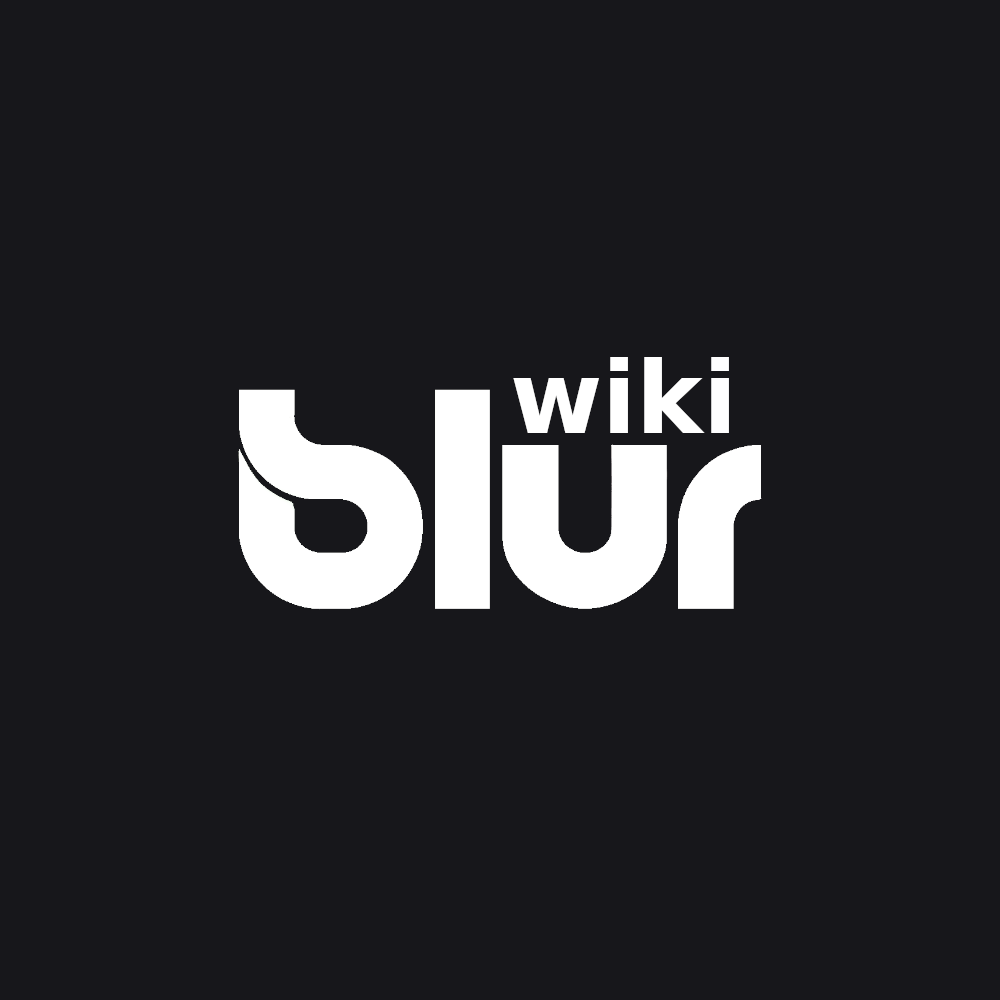
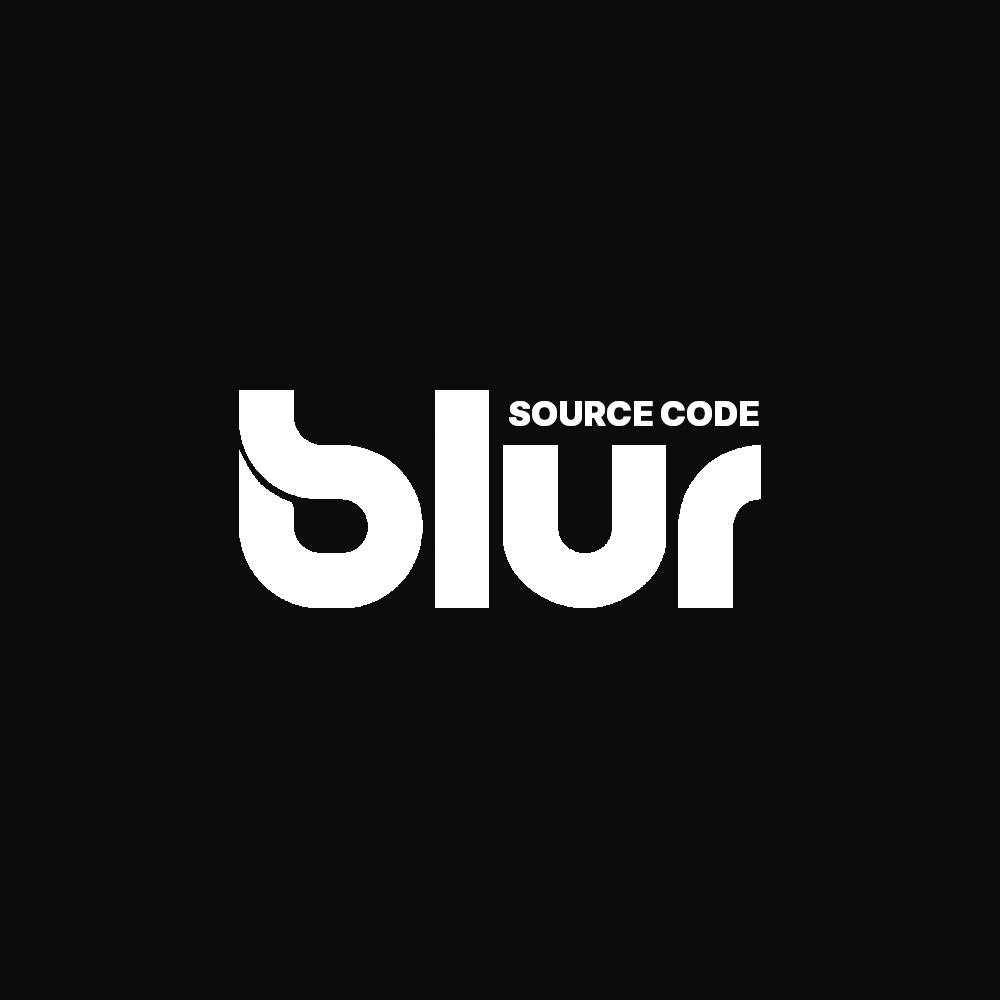
wiki

Changed region(s): [[0.496, 0.341, 0.775, 0.434]]

diff --git a/index.html b/index.html
@@ -304,7 +304,7 @@
       <div class="col-md-12">
           <div class="row">
 
-            <div class="col-xs-6 col-sm-3 col-md-4">
+            <div class="col-xs-6 col-sm-3 col-md-3">
               <div class="box p-a-xs">
                 <a href="#"><img src="images/wiki/amax.png" alt="" class="img-responsive"></a>
                 <div class="p-a-sm text-center">
@@ -318,7 +318,7 @@
               </div>
             </div>
 
-            <div class="col-xs-6 col-sm-3 col-md-4">
+            <div class="col-xs-6 col-sm-3 col-md-3">
               <div class="box p-a-xs">
                 <a href="#"><img src="images/wiki/blur.png" alt="" class="img-responsive"></a>
                 <div class="p-a-sm text-center">
@@ -332,11 +332,25 @@
               </div>
             </div>
 
-            <div class="col-xs-6 col-sm-3 col-md-4">
+            <div class="col-xs-6 col-sm-3 col-md-3">
+              <div class="box p-a-xs">
+                <a href="#"><img src="images/wiki/bd.png" alt="" class="img-responsive"></a>
+                <div class="p-a-sm text-center">
+                  <div class="text-ellipsis"><b>blurgames: wiki</b></div>
+                </div>
+                <div class="text-center">
+                    <a href="https://discord.gg/MEvaTghb6p">
+                      <button class="md-btn md-flat m-b-sm w-xs text-primary">Discord</button>
+                    </a>
+                  </div>
+              </div>
+            </div>
+
+            <div class="col-xs-6 col-sm-3 col-md-3">
               <div class="box p-a-xs">
                 <a href="#"><img src="images/wiki/blurwiki.png" alt="" class="img-responsive"></a>
                 <div class="p-a-sm text-center">
-                  <div class="text-ellipsis"><b>Blur Wiki</b></div>
+                  <div class="text-ellipsis"><b>source code</b></div>
                 </div>
                 <div class="text-center">
                     <a href="https://github.com/blurgames/wiki">
